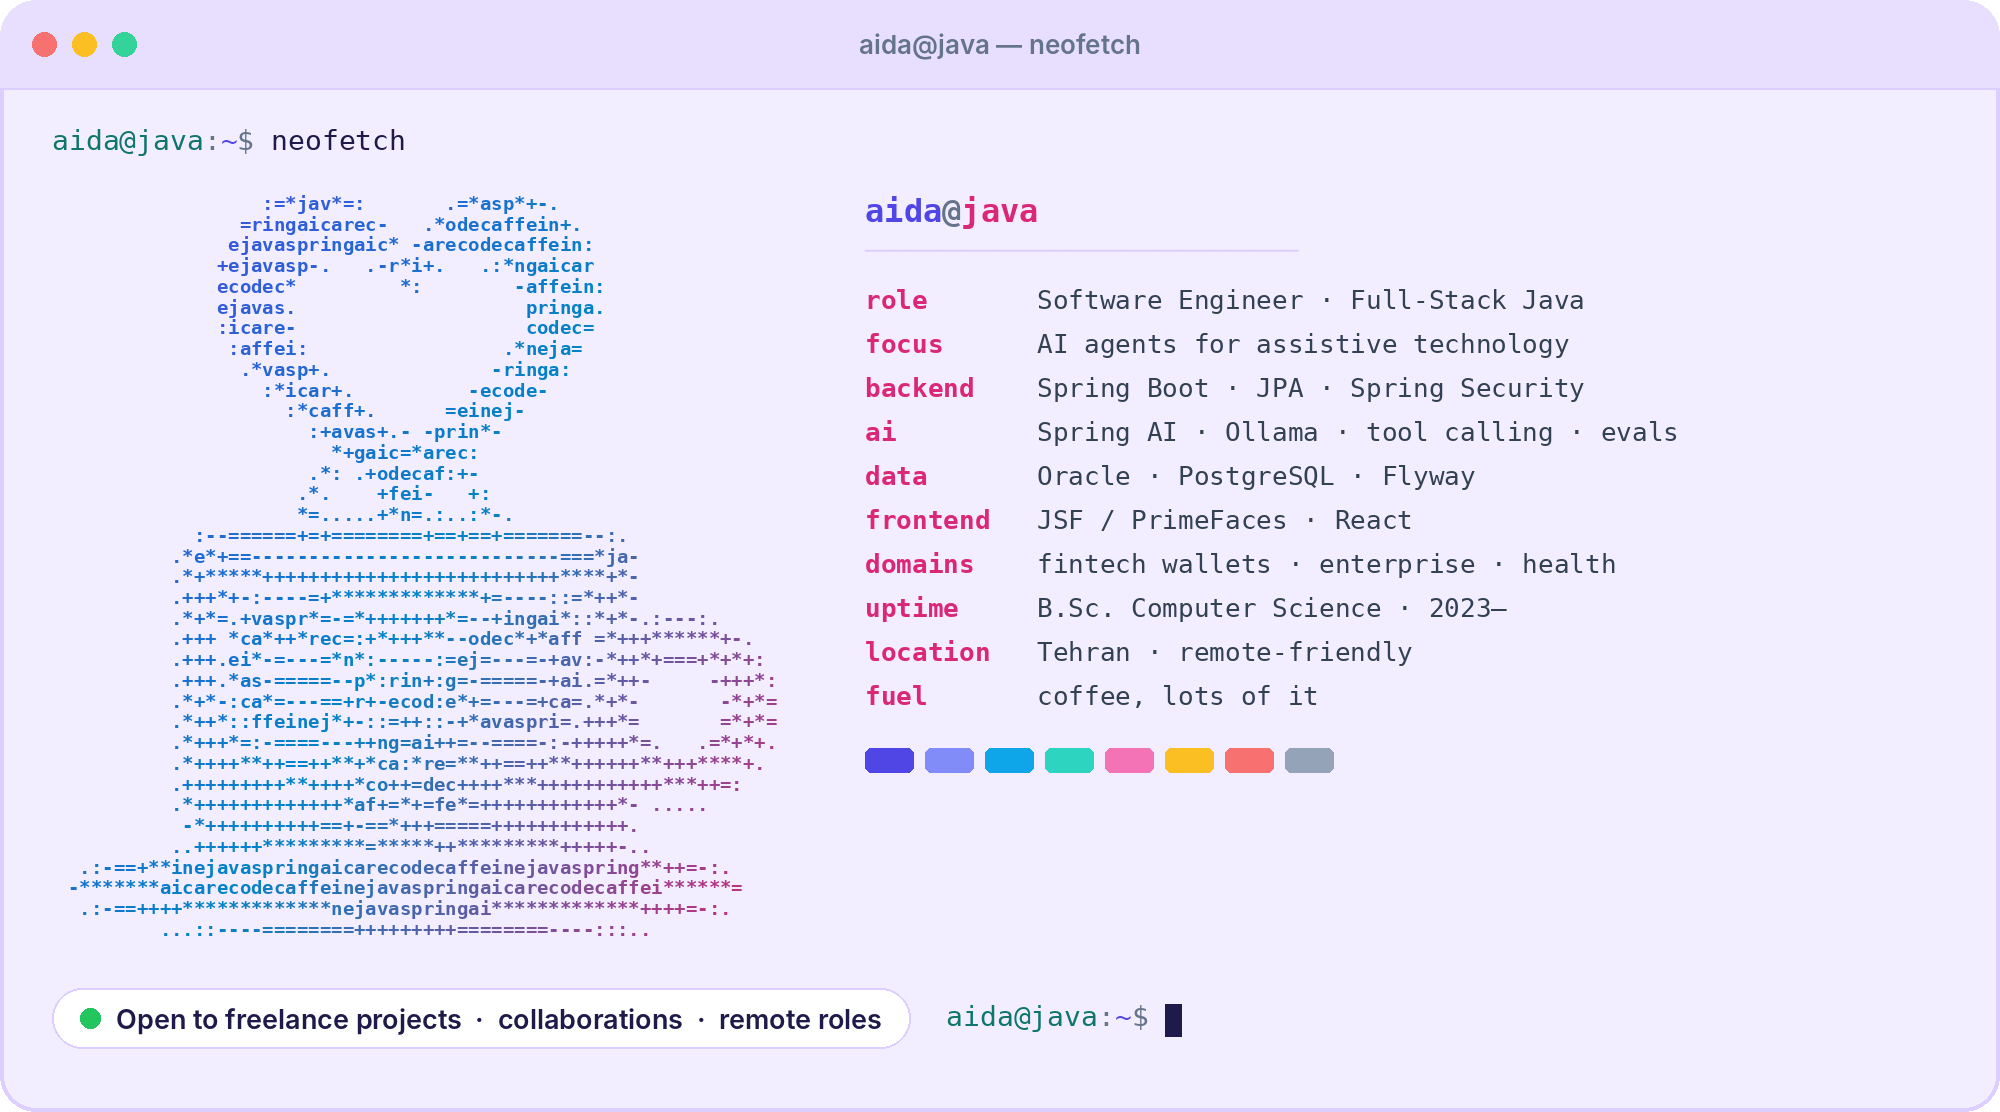
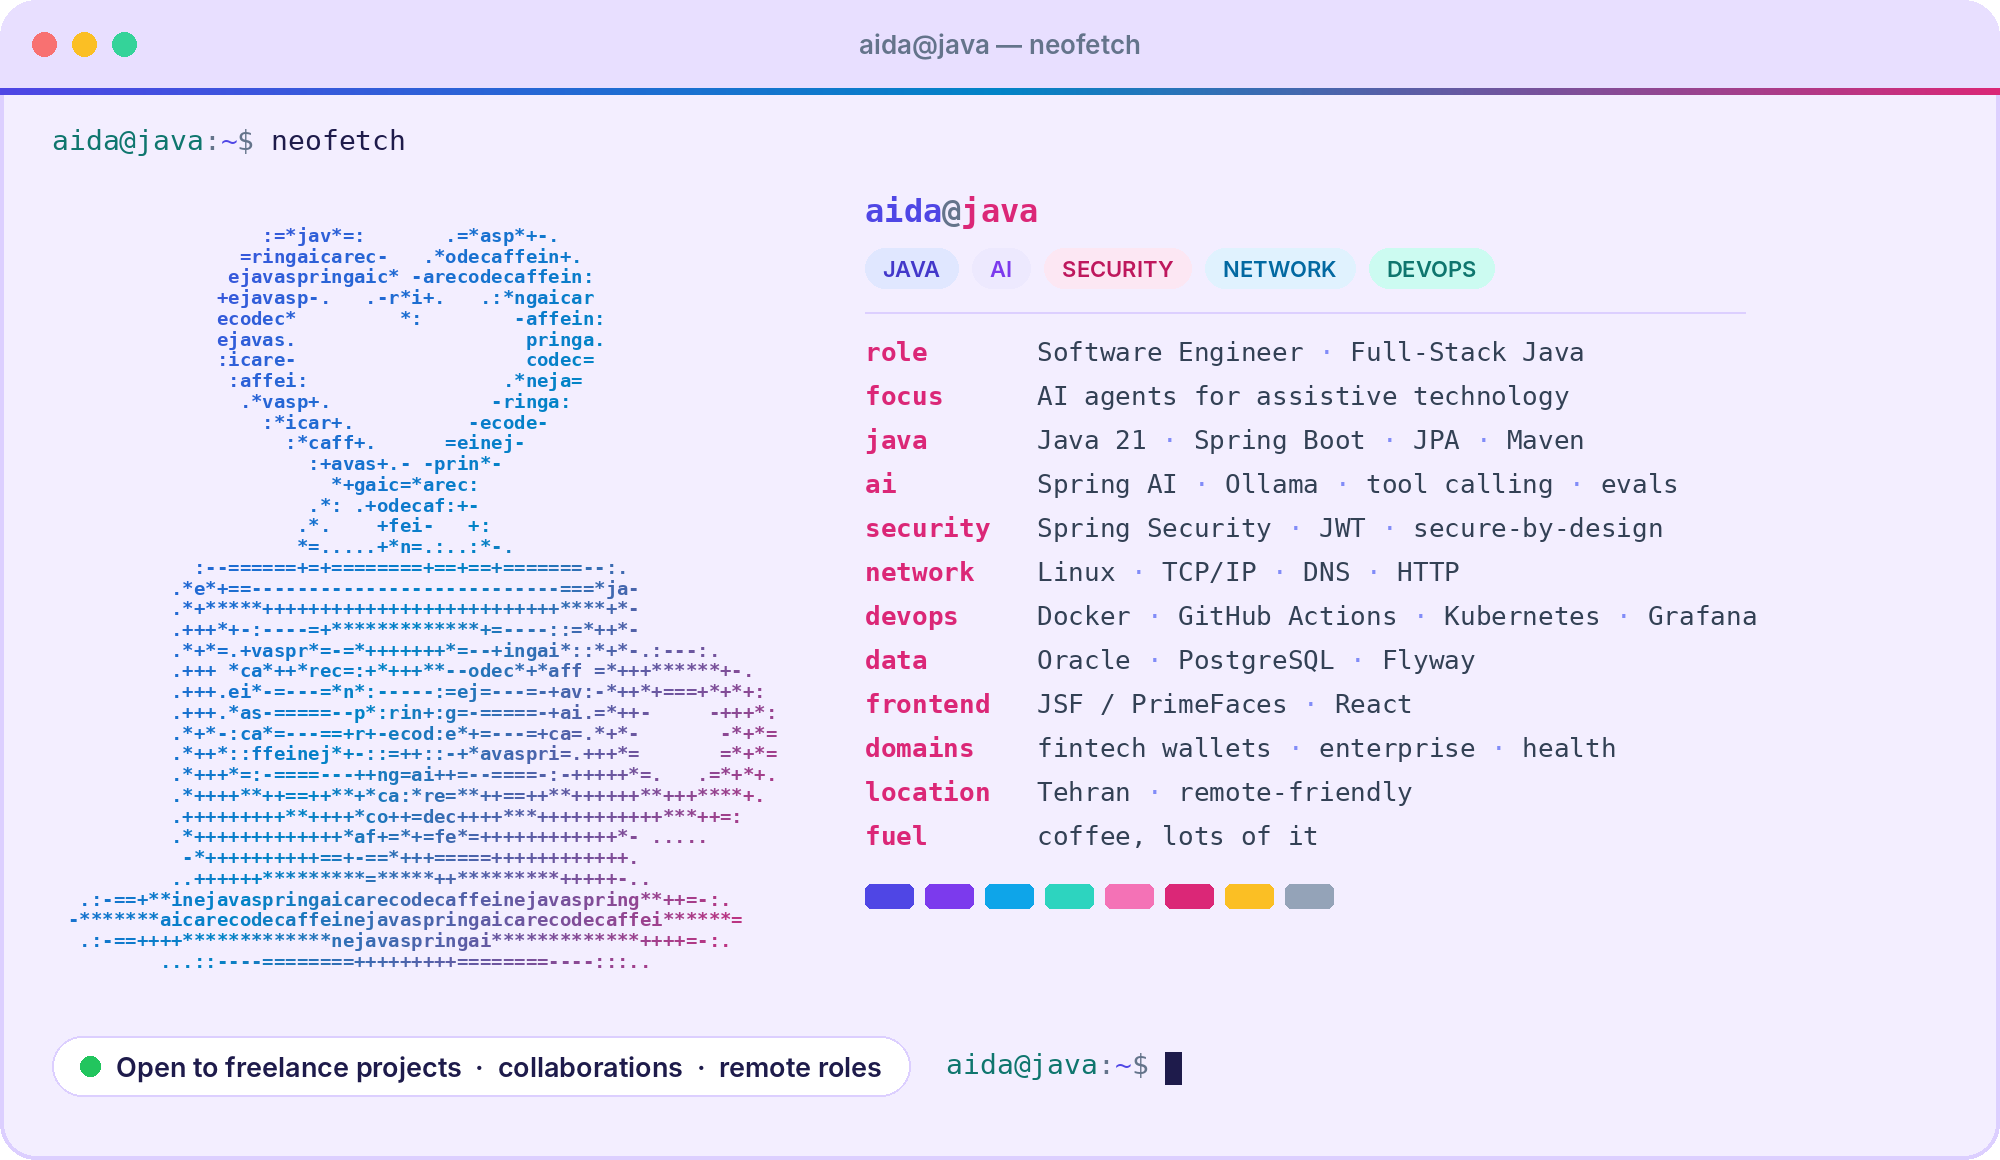
Terminal: add security, network and devops; domain chips and accent line
Claude-Session: https://claude.ai/code/session_01E49Qq1KZg89KsDK1xXqDUh

diff --git a/README.md b/README.md
@@ -38,7 +38,7 @@ decides anything safety-critical.** Those decisions live in plain, tested Java c
 to the agent is measured with evals before it ships.
 
 <div align="center">
-  <img src="assets/identity-terminal.png" width="100%" alt="A pastel terminal running neofetch: ASCII art of a coffee cup tied with a ribbon bow under a heart of steam, next to facts: Software Engineer, full-stack Java, AI agents for assistive technology, Spring Boot, Spring AI, Oracle, PostgreSQL, React. Status: open to freelance projects, collaborations and remote roles.">
+  <img src="assets/identity-terminal.png" width="100%" alt="A pastel terminal running neofetch: ASCII art of a coffee cup tied with a ribbon bow under a heart of steam, next to domain tags Java, AI, Security, Network, DevOps and facts: Software Engineer, full-stack Java, Spring Boot, Spring AI, Spring Security, Linux networking, Docker, Kubernetes, Oracle, PostgreSQL, React. Status: open to freelance projects, collaborations and remote roles.">
 </div>
 
 > `An LLM may talk. Only tested code decides.`
